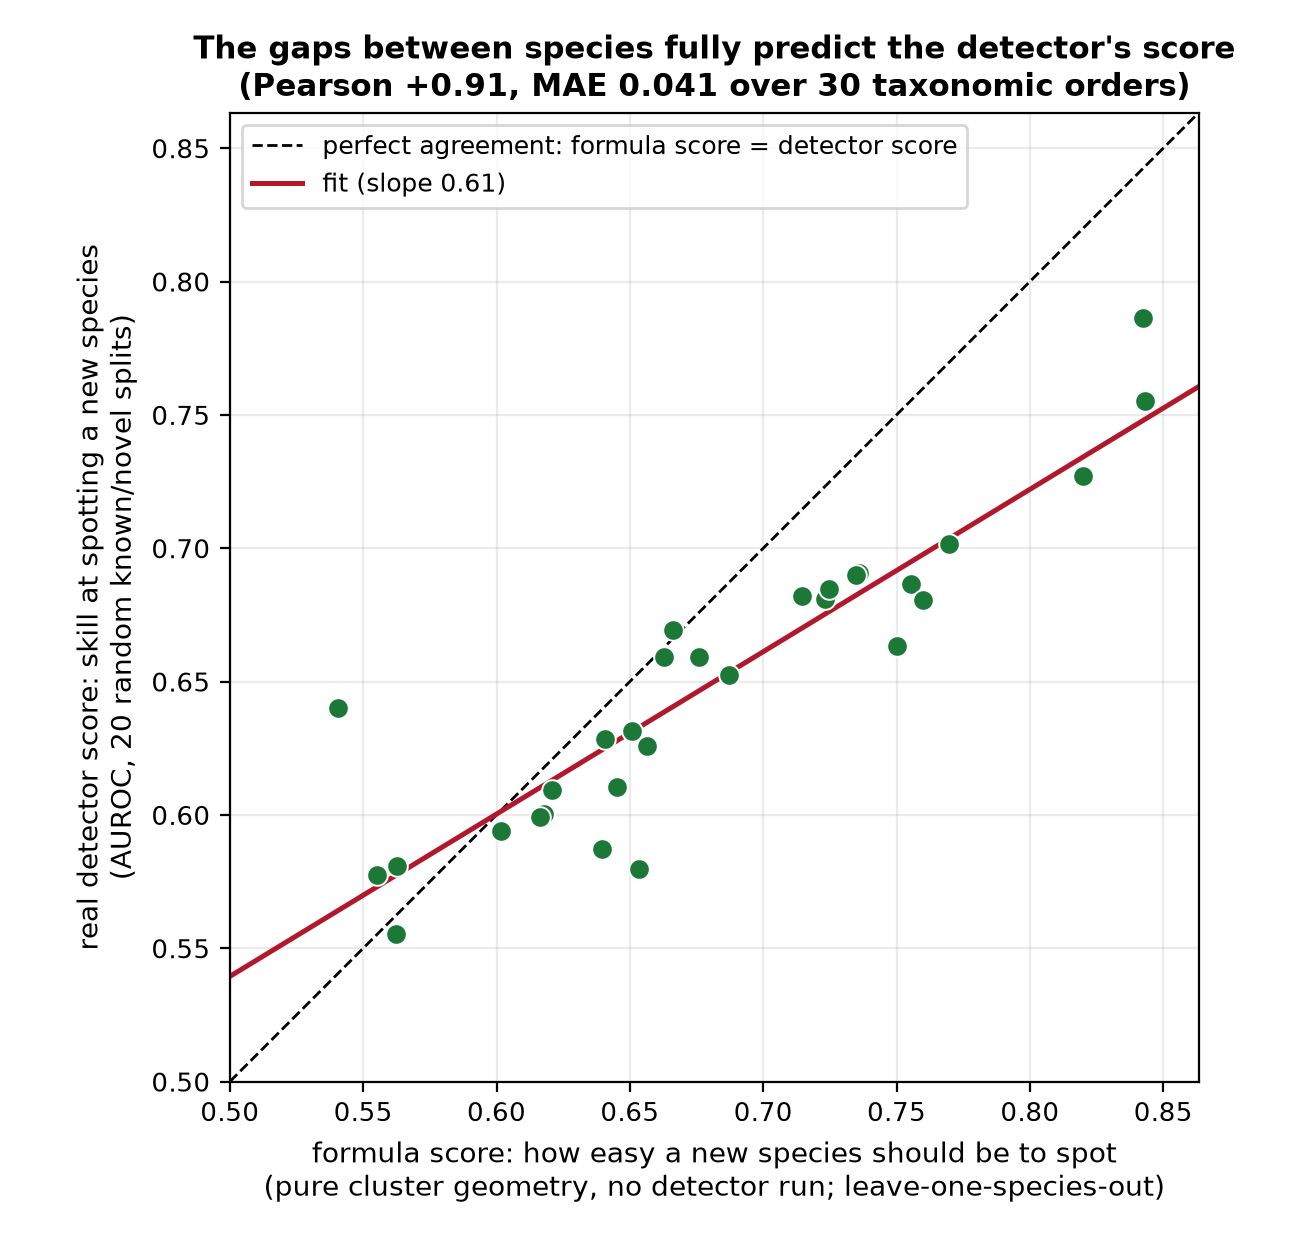
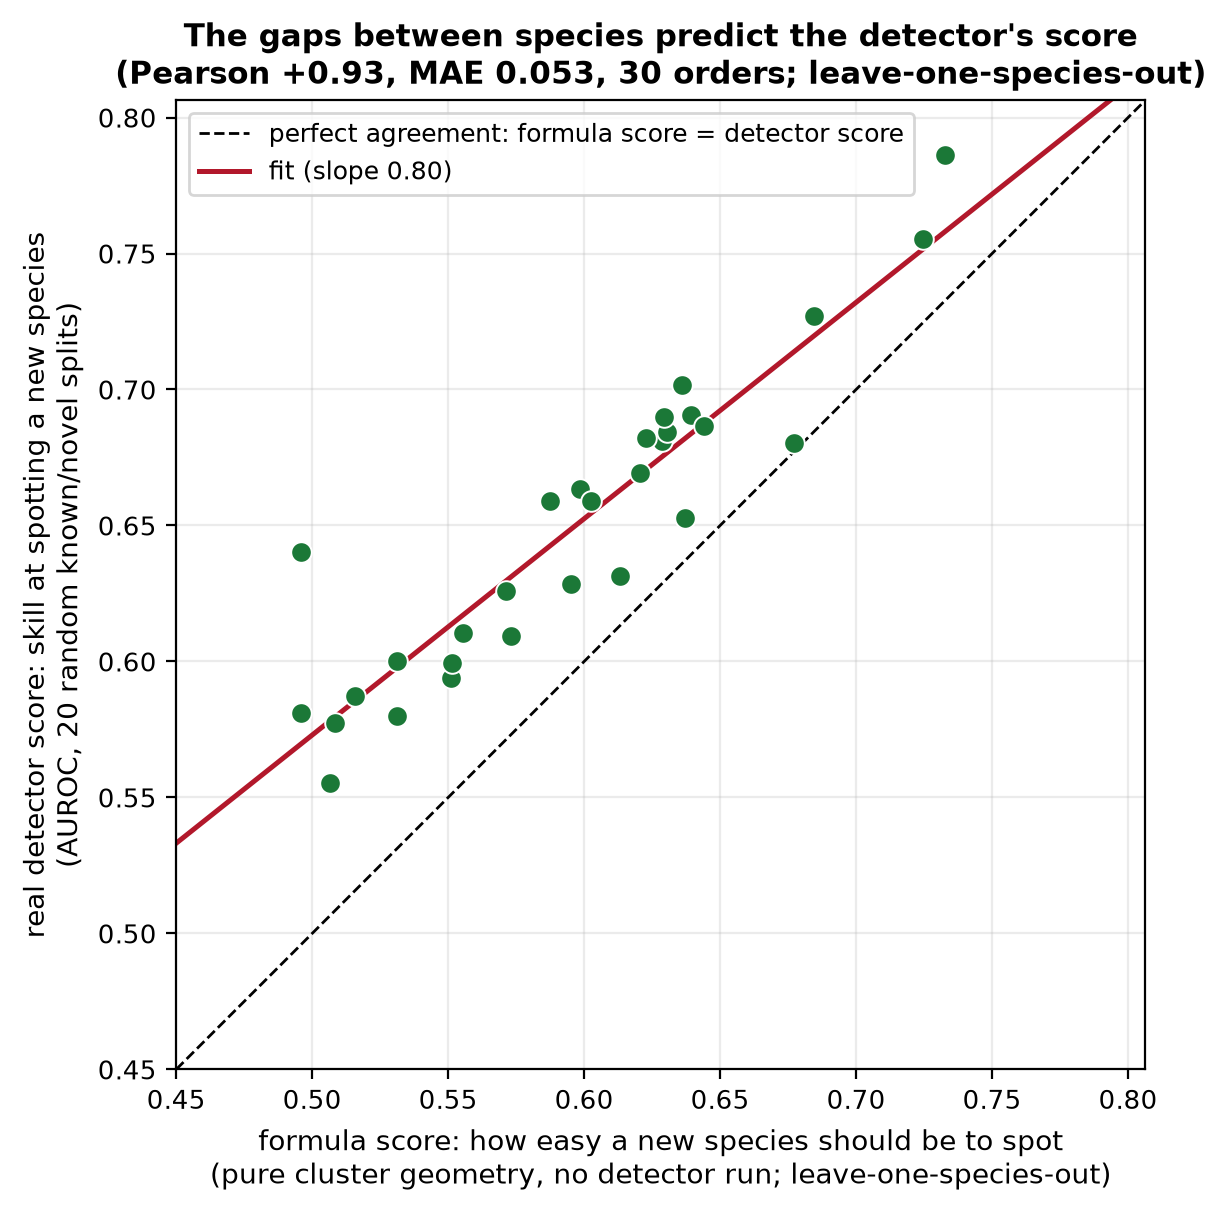
fix(talks): leak-correct geometry theory claim + scope the novelty claim
Two integrity fixes on the-geometry-of-discovery deck, both traced to committed
pilot data:
- theory slide: the figure + caption claimed a 'leave-one-species-out recompute'
  but showed the self-membership-biased number (Pearson 0.91 / MAE 0.04). Replaced
  with the genuine leak-fixed LOO figure (Pearson 0.93; analytic under-predicts by a
  small constant offset, shown honestly by the fit line). Caption now says the
  geometry predicts the detector's score up to a small offset, not 'is' it.
- 'what's new' slide: softened the absolute 'No prior work connects...' to
  'we're not aware of...' and contrasted with in-loop active-discovery selectors,
  which need a trained model.

diff --git a/talks/species-discovery/geometry-of-discovery/index.html b/talks/species-discovery/geometry-of-discovery/index.html
@@ -110,9 +110,9 @@
     <div class="body">
       <img class="fig" src="figs/theory.png" alt="closed form predicts AUROC" style="max-height:64vh">
       <div class="cap">A closed-form cluster separability predicts the actual open-set detector's per-clade
-        accuracy at <b class="accent">Pearson 0.91</b> (mean error 0.04), <b>with no detector run</b> and under a
-        leave-one-species-out recompute. The score isn't correlated with the detector; it essentially <i>is</i>
-        the detector.</div>
+        accuracy at <b class="accent">Pearson 0.93</b>, <b>with no detector run</b> and under a genuine
+        leave-one-species-out recompute. The geometry doesn't merely correlate with the detector &mdash; it
+        <i>predicts</i> its score, up to a small constant offset.</div>
     </div>
   </section>
 
@@ -191,8 +191,9 @@
   <section class="slide">
     <h2>What's new, and what's next</h2>
     <div class="body"><ul>
-      <li>No prior work connects a <b>label-free</b> separability statistic to open-set discovery benefit
-        <i>before</i> any model is trained or any budget spent.</li>
+      <li>We're not aware of prior work linking a <b>label-free</b> separability statistic to open-set
+        discovery benefit <i>before</i> any model is trained or budget spent &mdash; unlike in-loop
+        active-discovery selectors, which need a trained model to score candidates.</li>
       <li>The empirical law is the floor; the next step is a <b>bound</b> &mdash; under a margin / low-noise
         condition, the inter-species margin lower-bounds the expected information gain of a query.</li>
       <li>The same pre-flight drives two further results: <b>discovering unknown species</b> under a budget,